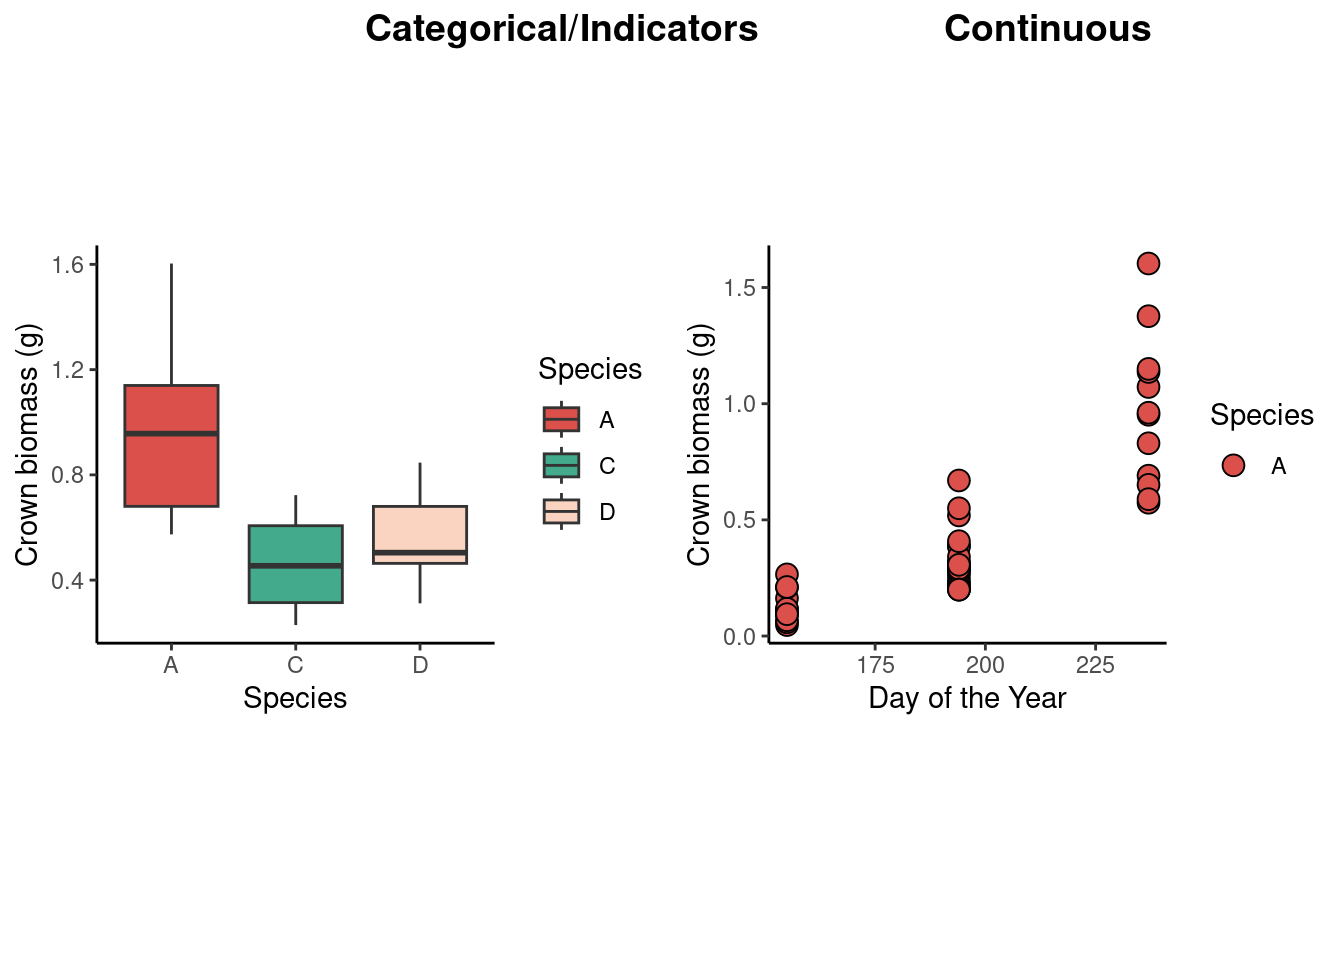
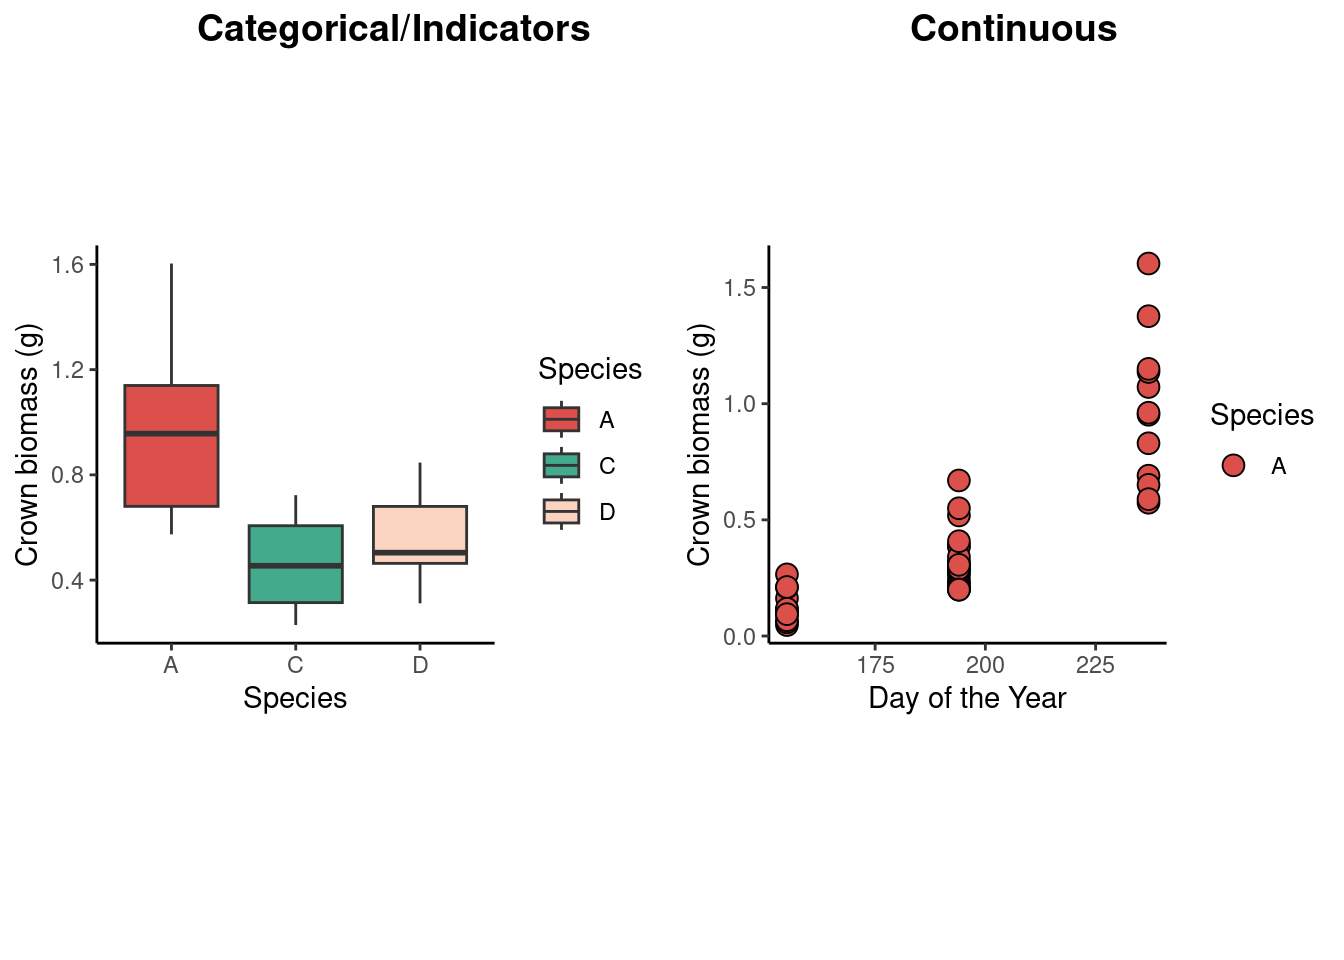
day 15

Changed region(s): [[0.1562, 0.0, 0.5625, 0.0625], [0.6875, 0.0, 0.875, 0.0625]]

diff --git a/classes/day15_09232024.html b/classes/day15_09232024.html
@@ -99,7 +99,7 @@ pre > code.sourceCode > span > a:first-child::before { text-decoration: underlin
 <section id="analysis-of-variance-anova" class="level2">
 <h2 class="anchored" data-anchor-id="analysis-of-variance-anova">Analysis of Variance: ANOVA</h2>
 <p>Helps us answering objectives like finding out “is A different to B or C?”, or “do any of these treatments have an effect on the mean?</p>
-<p>Other types of objectives would be “to predict the response of y to given levels of A and B”, or to ““.</p>
+<p>Other types of objectives (that require other types of modeling tools) would be “to predict y for given levels of A and B” (e.g., predict corn yield with 150 kg N per ha and 20 inches rainfall in the season), or ““.</p>
 <div class="cell">
 <div class="sourceCode cell-code" id="cb1"><pre class="sourceCode r code-with-copy"><code class="sourceCode r"><span id="cb1-1"><a href="#cb1-1" aria-hidden="true" tabindex="-1"></a><span class="fu">library</span>(tidyverse)</span>
 <span id="cb1-2"><a href="#cb1-2" aria-hidden="true" tabindex="-1"></a><span class="fu">library</span>(ggpubr)</span>
@@ -153,7 +153,7 @@ F-statistic: 15.88 on 2 and 33 DF,  p-value: 1.477e-05</code></pre>
 <p>What’s another way of writing out this statistical model?</p>
 <p><a href="https://github.com/jlacasa/stat705_fall2024/blob/main/classes/in_class_code/day15_inclass.Rmd">Live R coding.</a></p>
 <div class="cell">
-<div class="sourceCode cell-code" id="cb5"><pre class="sourceCode r code-with-copy"><code class="sourceCode r"><span id="cb5-1"><a href="#cb5-1" aria-hidden="true" tabindex="-1"></a><span class="fu">model.matrix</span>(m1)[<span class="dv">1</span><span class="sc">:</span><span class="dv">15</span>,]</span></code><button title="Copy to Clipboard" class="code-copy-button"><i class="bi"></i></button></pre></div>
+<div class="sourceCode cell-code" id="cb5"><pre class="sourceCode r code-with-copy"><code class="sourceCode r"><span id="cb5-1"><a href="#cb5-1" aria-hidden="true" tabindex="-1"></a><span class="fu">model.matrix</span>(m1)[<span class="dv">1</span><span class="sc">:</span><span class="dv">30</span>,]</span></code><button title="Copy to Clipboard" class="code-copy-button"><i class="bi"></i></button></pre></div>
 <div class="cell-output cell-output-stdout">
 <pre><code>   (Intercept) speciesC speciesD
 1            1        0        0
@@ -170,7 +170,22 @@ F-statistic: 15.88 on 2 and 33 DF,  p-value: 1.477e-05</code></pre>
 12           1        0        0
 13           1        1        0
 14           1        1        0
-15           1        1        0</code></pre>
+15           1        1        0
+16           1        1        0
+17           1        1        0
+18           1        1        0
+19           1        1        0
+20           1        1        0
+21           1        1        0
+22           1        1        0
+23           1        1        0
+24           1        1        0
+25           1        0        1
+26           1        0        1
+27           1        0        1
+28           1        0        1
+29           1        0        1
+30           1        0        1</code></pre>
 </div>
 </div>
 <section id="one-way-anova" class="level3">
@@ -259,7 +274,7 @@ F-statistic: 9.875 on 5 and 66 DF,  p-value: 4.427e-07</code></pre>
 </div>
 </div>
 <div class="cell">
-<div class="sourceCode cell-code" id="cb14"><pre class="sourceCode r code-with-copy"><code class="sourceCode r"><span id="cb14-1"><a href="#cb14-1" aria-hidden="true" tabindex="-1"></a><span class="fu">model.matrix</span>(m2)[<span class="dv">1</span><span class="sc">:</span><span class="dv">10</span>,]</span></code><button title="Copy to Clipboard" class="code-copy-button"><i class="bi"></i></button></pre></div>
+<div class="sourceCode cell-code" id="cb14"><pre class="sourceCode r code-with-copy"><code class="sourceCode r"><span id="cb14-1"><a href="#cb14-1" aria-hidden="true" tabindex="-1"></a><span class="fu">model.matrix</span>(m2)[<span class="dv">1</span><span class="sc">:</span><span class="dv">30</span>,]</span></code><button title="Copy to Clipboard" class="code-copy-button"><i class="bi"></i></button></pre></div>
 <div class="cell-output cell-output-stdout">
 <pre><code>   (Intercept) speciesC speciesD trtflood speciesC:trtflood speciesD:trtflood
 1            1        0        0        0                 0                 0
@@ -271,7 +286,27 @@ F-statistic: 9.875 on 5 and 66 DF,  p-value: 4.427e-07</code></pre>
 7            1        0        0        0                 0                 0
 8            1        0        0        0                 0                 0
 9            1        0        0        0                 0                 0
-10           1        0        0        0                 0                 0</code></pre>
+10           1        0        0        0                 0                 0
+11           1        0        0        0                 0                 0
+12           1        0        0        0                 0                 0
+13           1        1        0        0                 0                 0
+14           1        1        0        0                 0                 0
+15           1        1        0        0                 0                 0
+16           1        1        0        0                 0                 0
+17           1        1        0        0                 0                 0
+18           1        1        0        0                 0                 0
+19           1        1        0        0                 0                 0
+20           1        1        0        0                 0                 0
+21           1        1        0        0                 0                 0
+22           1        1        0        0                 0                 0
+23           1        1        0        0                 0                 0
+24           1        1        0        0                 0                 0
+25           1        0        1        0                 0                 0
+26           1        0        1        0                 0                 0
+27           1        0        1        0                 0                 0
+28           1        0        1        0                 0                 0
+29           1        0        1        0                 0                 0
+30           1        0        1        0                 0                 0</code></pre>
 </div>
 </div>
 <div class="cell">
@@ -335,7 +370,7 @@ Signif. codes:  0 '***' 0.001 '**' 0.01 '*' 0.05 '.' 0.1 ' ' 1</code></pre>
 <span id="cb20-23"><a href="#cb20-23" aria-hidden="true" tabindex="-1"></a>    <span class="fu">theme</span>(<span class="at">aspect.ratio =</span> <span class="dv">1</span>),</span>
 <span id="cb20-24"><a href="#cb20-24" aria-hidden="true" tabindex="-1"></a> <span class="at">ncol =</span><span class="dv">2</span>, </span>
 <span id="cb20-25"><a href="#cb20-25" aria-hidden="true" tabindex="-1"></a> <span class="at">labels =</span> <span class="fu">c</span>(<span class="st">"Categorical/Indicators"</span>, <span class="st">"Continuous"</span>), </span>
-<span id="cb20-26"><a href="#cb20-26" aria-hidden="true" tabindex="-1"></a> <span class="at">label.x =</span> <span class="fl">0.25</span></span>
+<span id="cb20-26"><a href="#cb20-26" aria-hidden="true" tabindex="-1"></a> <span class="at">label.x =</span> <span class="fu">c</span>(<span class="dv">0</span>, <span class="fl">0.2</span>)</span>
 <span id="cb20-27"><a href="#cb20-27" aria-hidden="true" tabindex="-1"></a>)</span></code><button title="Copy to Clipboard" class="code-copy-button"><i class="bi"></i></button></pre></div>
 <div class="cell-output-display">
 <p><img src="day15_09232024_files/figure-html/unnamed-chunk-10-1.png" class="img-fluid" width="672"></p>
@@ -397,11 +432,57 @@ Residuals   2.9680 138
 Signif. codes:  0 '***' 0.001 '**' 0.01 '*' 0.05 '.' 0.1 ' ' 1</code></pre>
 </div>
 </div>
+<div class="cell">
+<div class="sourceCode cell-code" id="cb26"><pre class="sourceCode r code-with-copy"><code class="sourceCode r"><span id="cb26-1"><a href="#cb26-1" aria-hidden="true" tabindex="-1"></a><span class="fu">model.matrix</span>(m3)[<span class="dv">1</span><span class="sc">:</span><span class="dv">30</span>,]</span></code><button title="Copy to Clipboard" class="code-copy-button"><i class="bi"></i></button></pre></div>
+<div class="cell-output cell-output-stdout">
+<pre><code>   (Intercept) speciesC speciesD doy speciesC:doy speciesD:doy
+1            1        0        0 155            0            0
+2            1        0        0 155            0            0
+3            1        0        0 155            0            0
+4            1        0        0 155            0            0
+5            1        0        0 155            0            0
+6            1        0        0 155            0            0
+7            1        0        0 155            0            0
+8            1        0        0 155            0            0
+9            1        0        0 155            0            0
+10           1        0        0 155            0            0
+11           1        0        0 155            0            0
+12           1        0        0 155            0            0
+13           1        1        0 155          155            0
+14           1        1        0 155          155            0
+15           1        1        0 155          155            0
+16           1        1        0 155          155            0
+17           1        1        0 155          155            0
+18           1        1        0 155          155            0
+19           1        1        0 155          155            0
+20           1        1        0 155          155            0
+21           1        1        0 155          155            0
+22           1        1        0 155          155            0
+23           1        1        0 155          155            0
+24           1        1        0 155          155            0
+25           1        0        1 155            0          155
+26           1        0        1 155            0          155
+27           1        0        1 155            0          155
+28           1        0        1 155            0          155
+29           1        0        1 155            0          155
+30           1        0        1 155            0          155</code></pre>
+</div>
+</div>
 </section>
 </section>
 <section id="lets-put-this-in-context" class="level2">
 <h2 class="anchored" data-anchor-id="lets-put-this-in-context">Let’s put this in context</h2>
-<p>-To the whiteboard</p>
+<ul>
+<li>Don’t forget our assumptions:
+<ul>
+<li>residuals are iid <span class="math inline">\(\sim N(0, \sigma^2)\)</span><br>
+</li>
+<li>parameters enter linearly (linear model)<br>
+</li>
+<li>homoscedasticity (i.e., constant variance)</li>
+</ul></li>
+<li>Whiteboard. Context in data analysis workflow.</li>
+</ul>
 </section>
 <section id="for-next-class" class="level2">
 <h2 class="anchored" data-anchor-id="for-next-class">For next class</h2>
@@ -409,6 +490,7 @@ Signif. codes:  0 '***' 0.001 '**' 0.01 '*' 0.05 '.' 0.1 ' ' 1</code></pre>
 <li>Read Chapter 15.<br>
 </li>
 <li>Resubmit Assignment 2.</li>
+<li>Following: model diagnostics, model selection.</li>
 </ul>
 </section>
 
